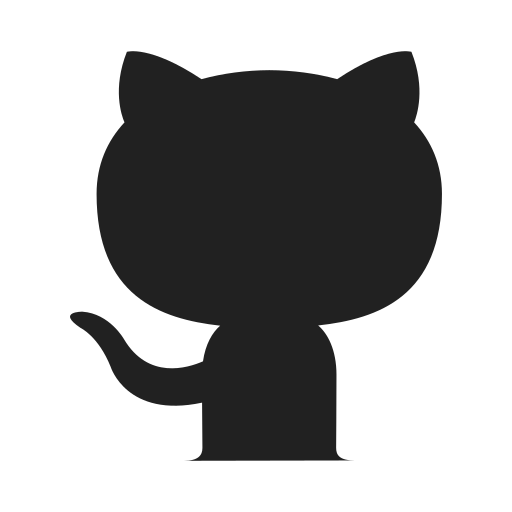
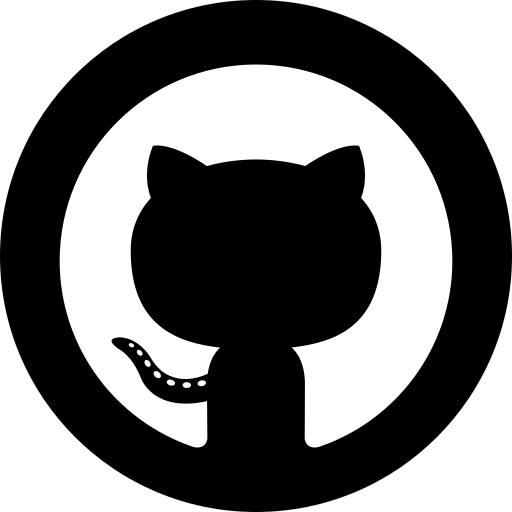
Portfolio updated

diff --git a/index.html b/index.html
@@ -100,7 +100,7 @@
                 rel="noopener noreferrer"
                 aria-label="twitter"
               >
-               <img src="./assets/git.png" alt="github">
+               <img src="./assets/github.png" alt="github">
               </a>
               
               <a
@@ -152,8 +152,8 @@
           </div>
           <div class="about-wrapper__info">
             <p class="about-wrapper__info-text">
-              Enthusiastic aspiring Java back-end developer.
-              Proficient Collaborative and Hard-Working Team player.
+              Enthusiastic aspiring Java back-end Developer.
+              Goal-oriented, hard-working, and a team-player.
               Interested in Data Structure & Algorithm. Good in
               solving DSA problems. have good knowledge of
               Javascript & Java language and Back-end tech stack.
